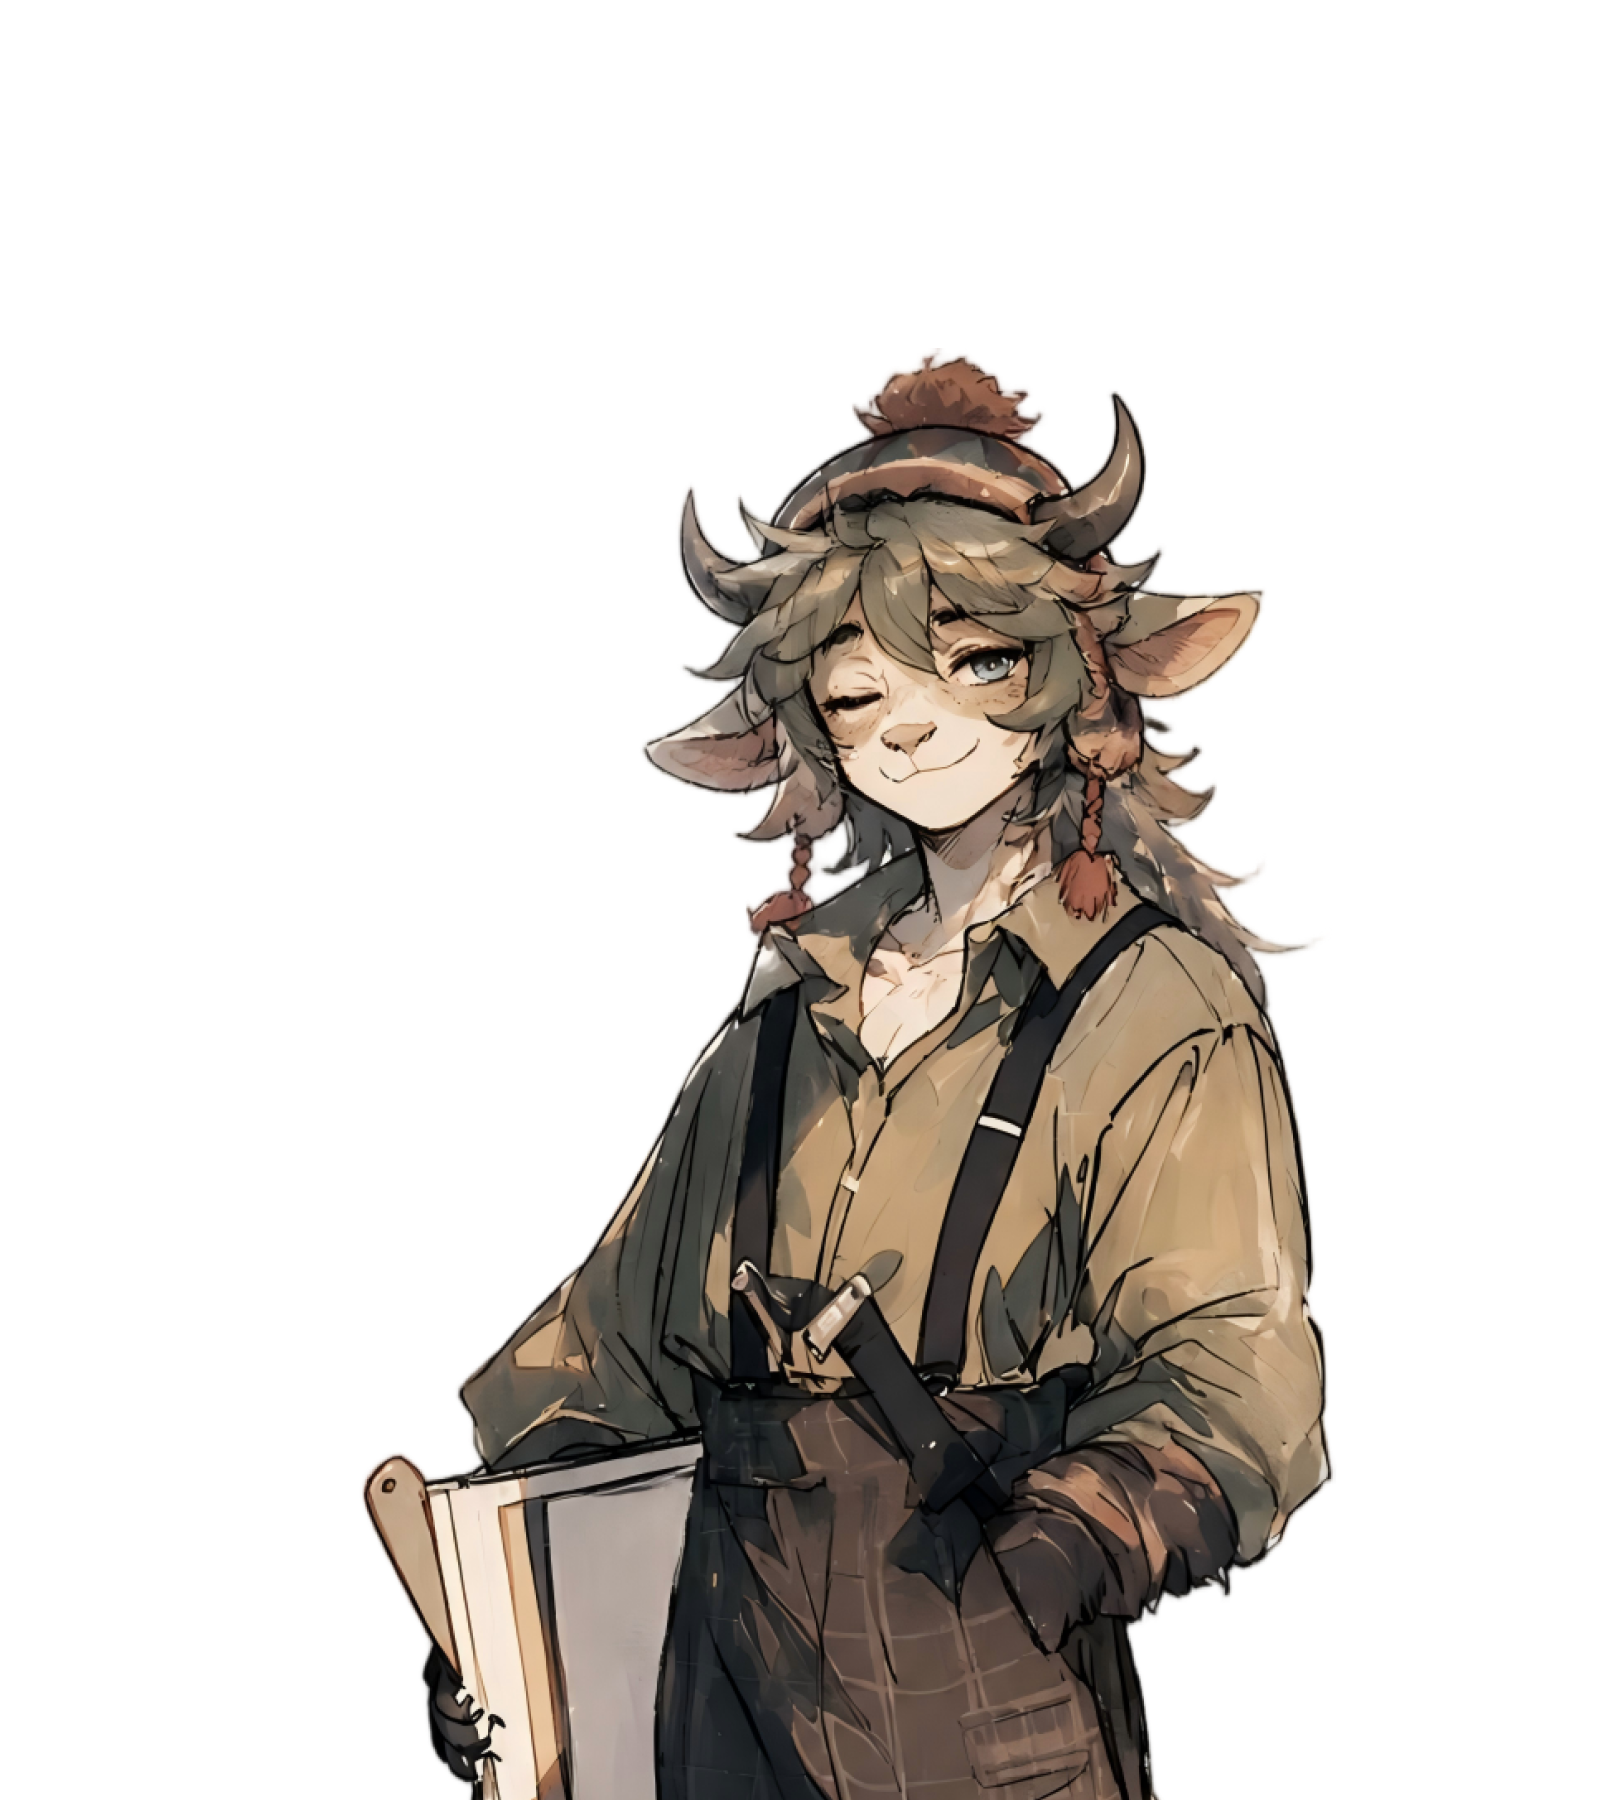
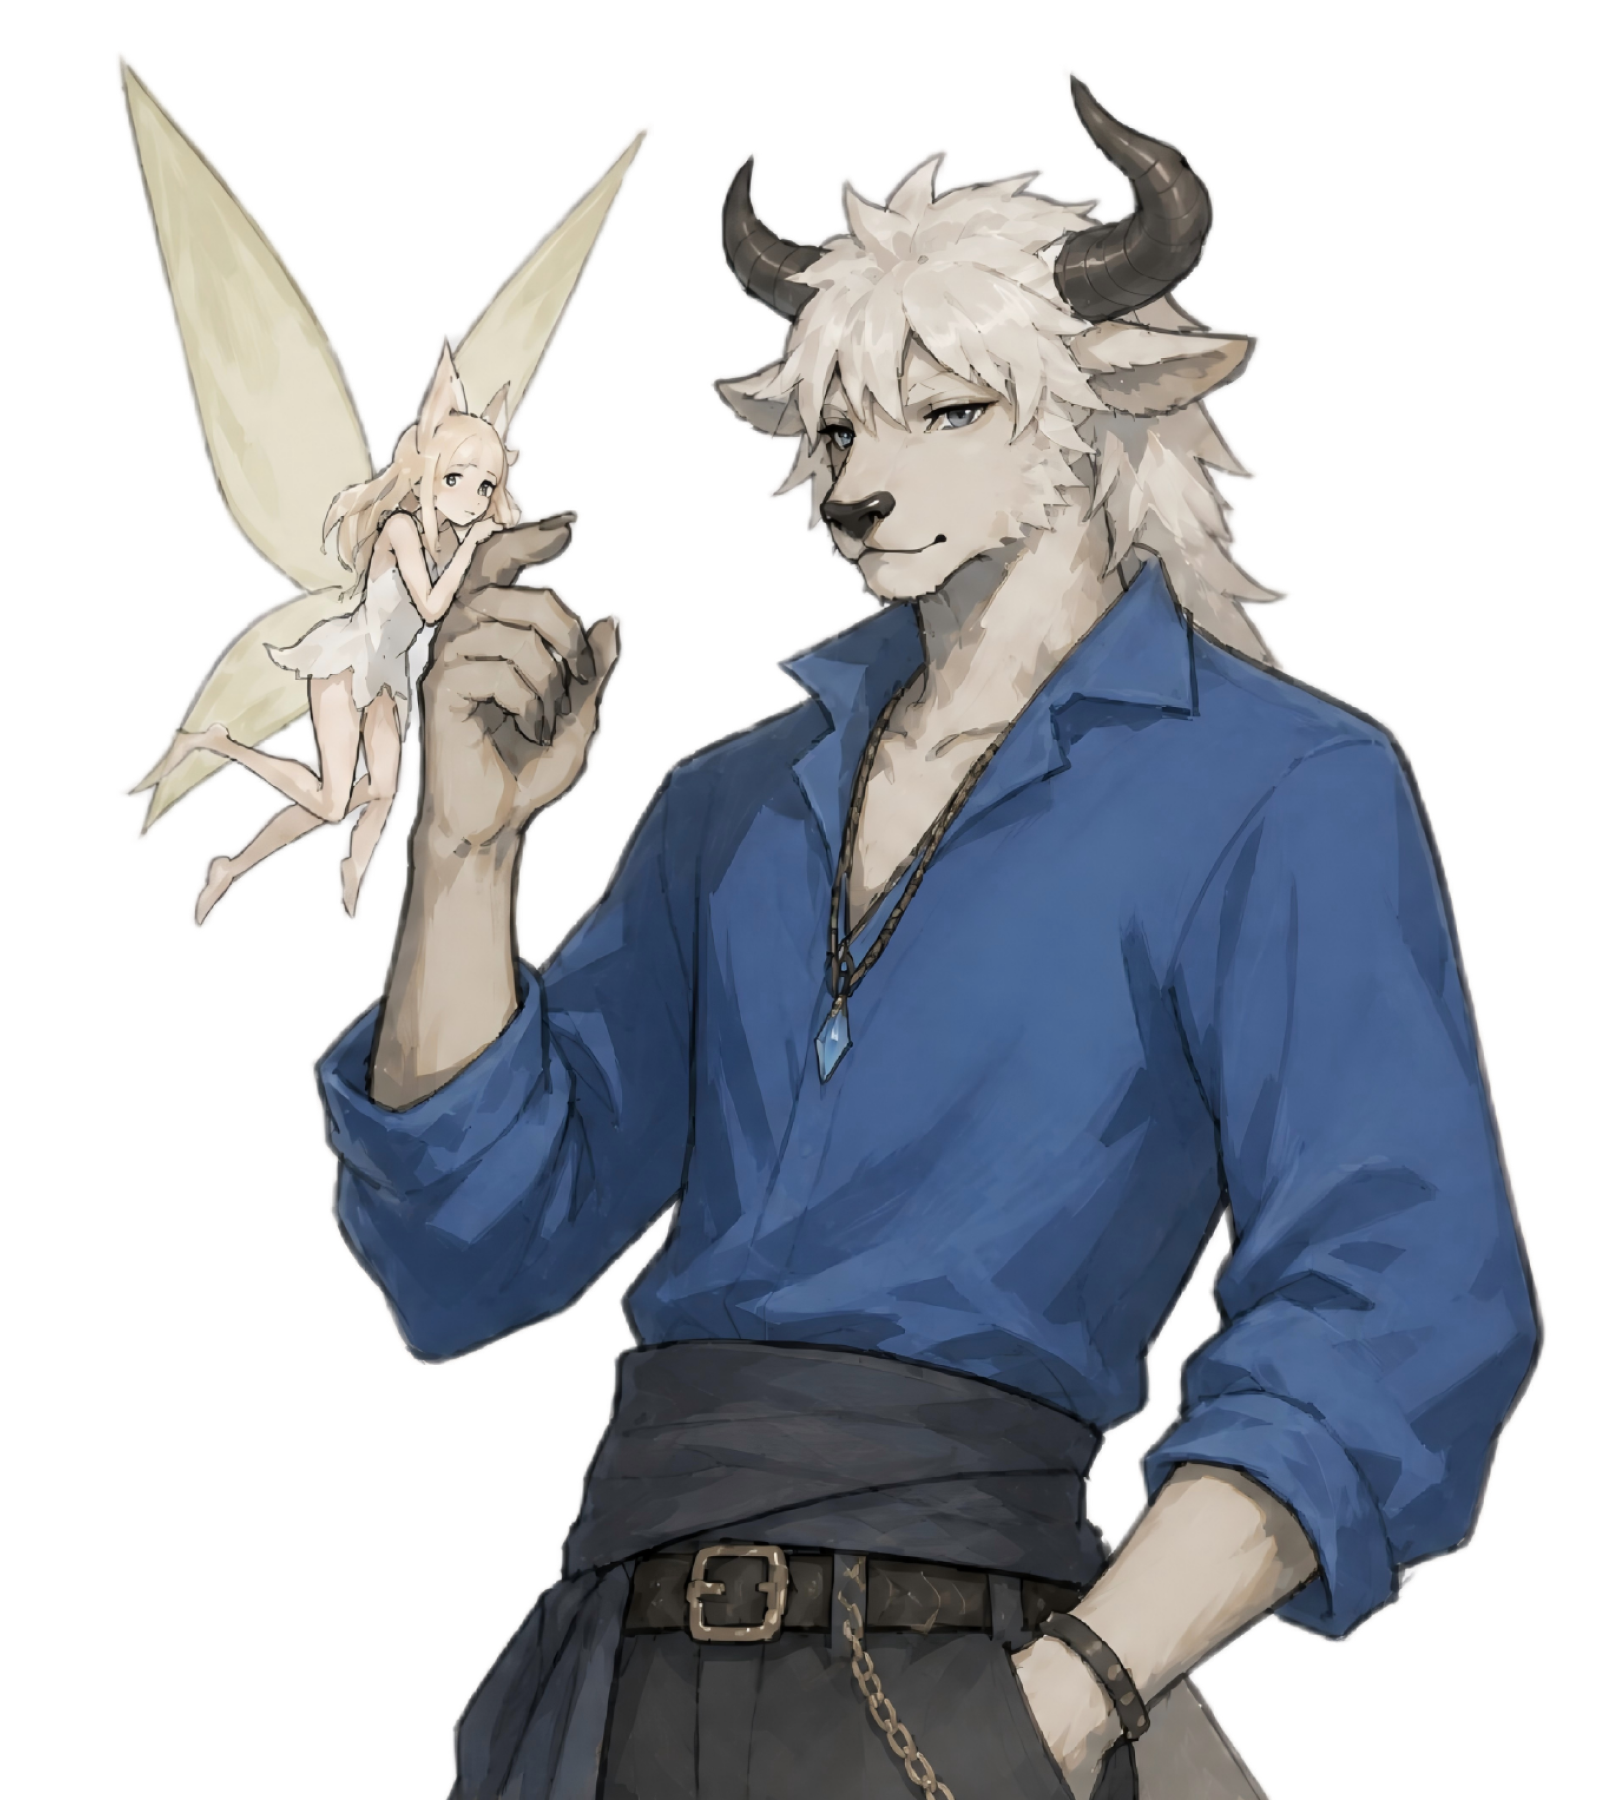
修牛家两位的美术错位：对话立绘内容对调，卡面映射交叉（同豹家先例）
链路核对（对话文本为准）：yak=牛莱老师（钢琴老师）、ox=牛小顿。
- Resources/Portraits 里 ox.png/yak.png 内容装反（自称老师的牛莱对话时
  显示白牛）：对调两文件内容，meta/GUID 不动，对话立绘即刻归位。
- 图鉴卡面文件名交叉：ox 卡画的是牛莱老师、牛来卡画的是牛小顿。
  CodexEntries 按内容交叉映射：ox→牛来卡、yak→ox卡；
  详情立绘/头像文件名本来是对的，不动。

diff --git a/Assets/Scripts/HouseUI/Editor/OutGameUIPrefabGenerator.cs b/Assets/Scripts/HouseUI/Editor/OutGameUIPrefabGenerator.cs
@@ -3006,9 +3006,11 @@ namespace MasterHouse
             ("wolf",    "wolf",    "wolf",    "wolf"),
             ("cheetah", "leopard", "leopard", "leopard"),
             ("leopard", "cheetah", "cheetah", "cheetah"),
-            ("ox",      "ox",      "ox",      "ox"),
+            // 牛家两位的卡面文件名历史上也是交叉的（同豹家）：ox 卡画的是牛莱老师(yak)，
+            // 牛来卡画的是牛小顿(ox)；详情立绘/头像的文件名是对的
+            ("ox",      "牛来",     "ox",      "ox"),
             ("cat",     "cat",     "cat",     "cat"),
-            ("yak",     "牛来",     "yak",     "yak"),
+            ("yak",     "ox",      "yak",     "yak"),
         };
 
         /// <summary>
